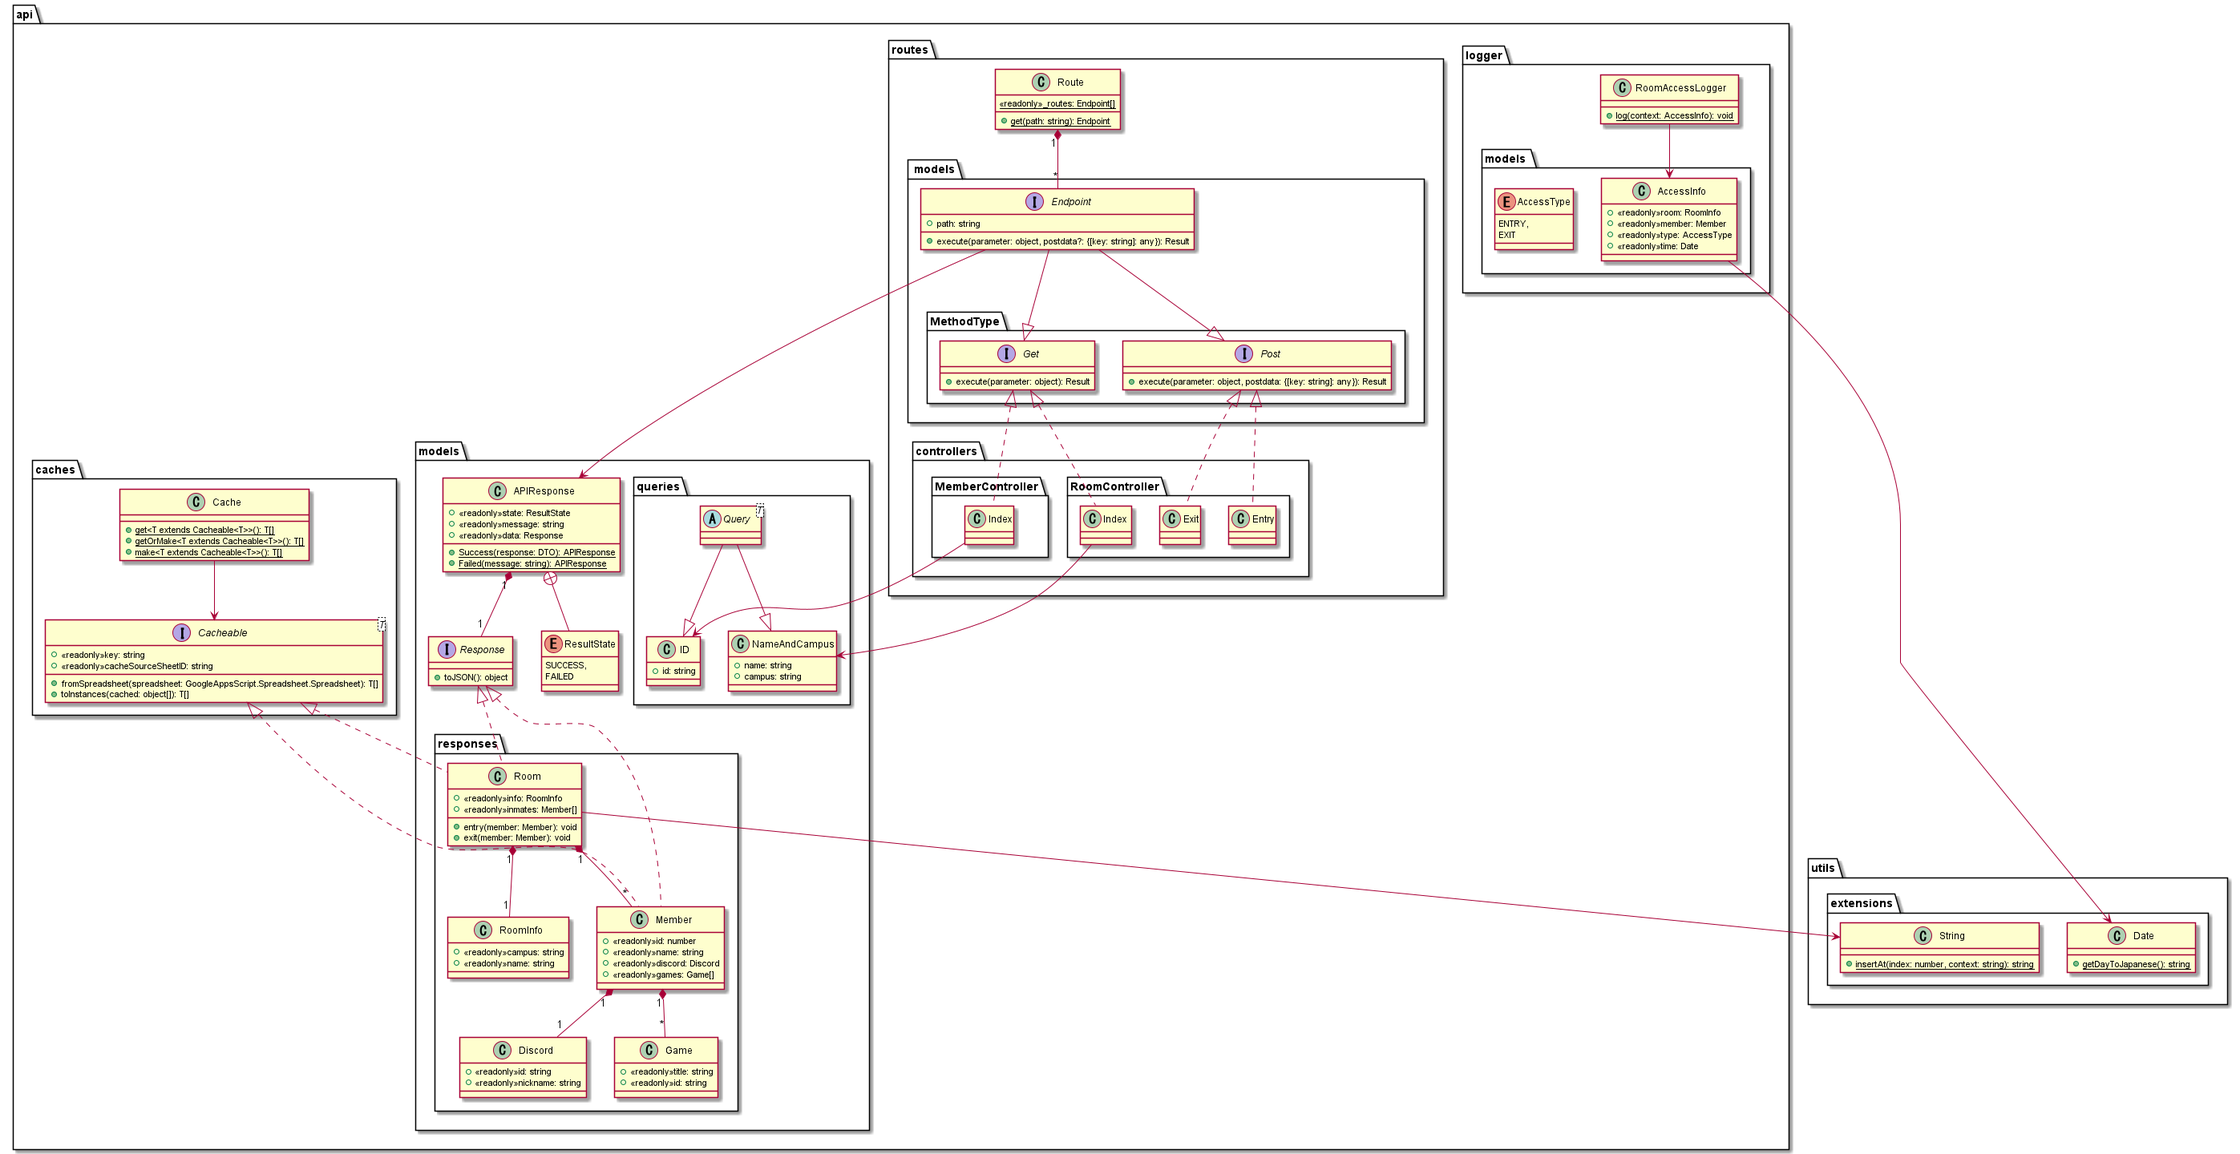
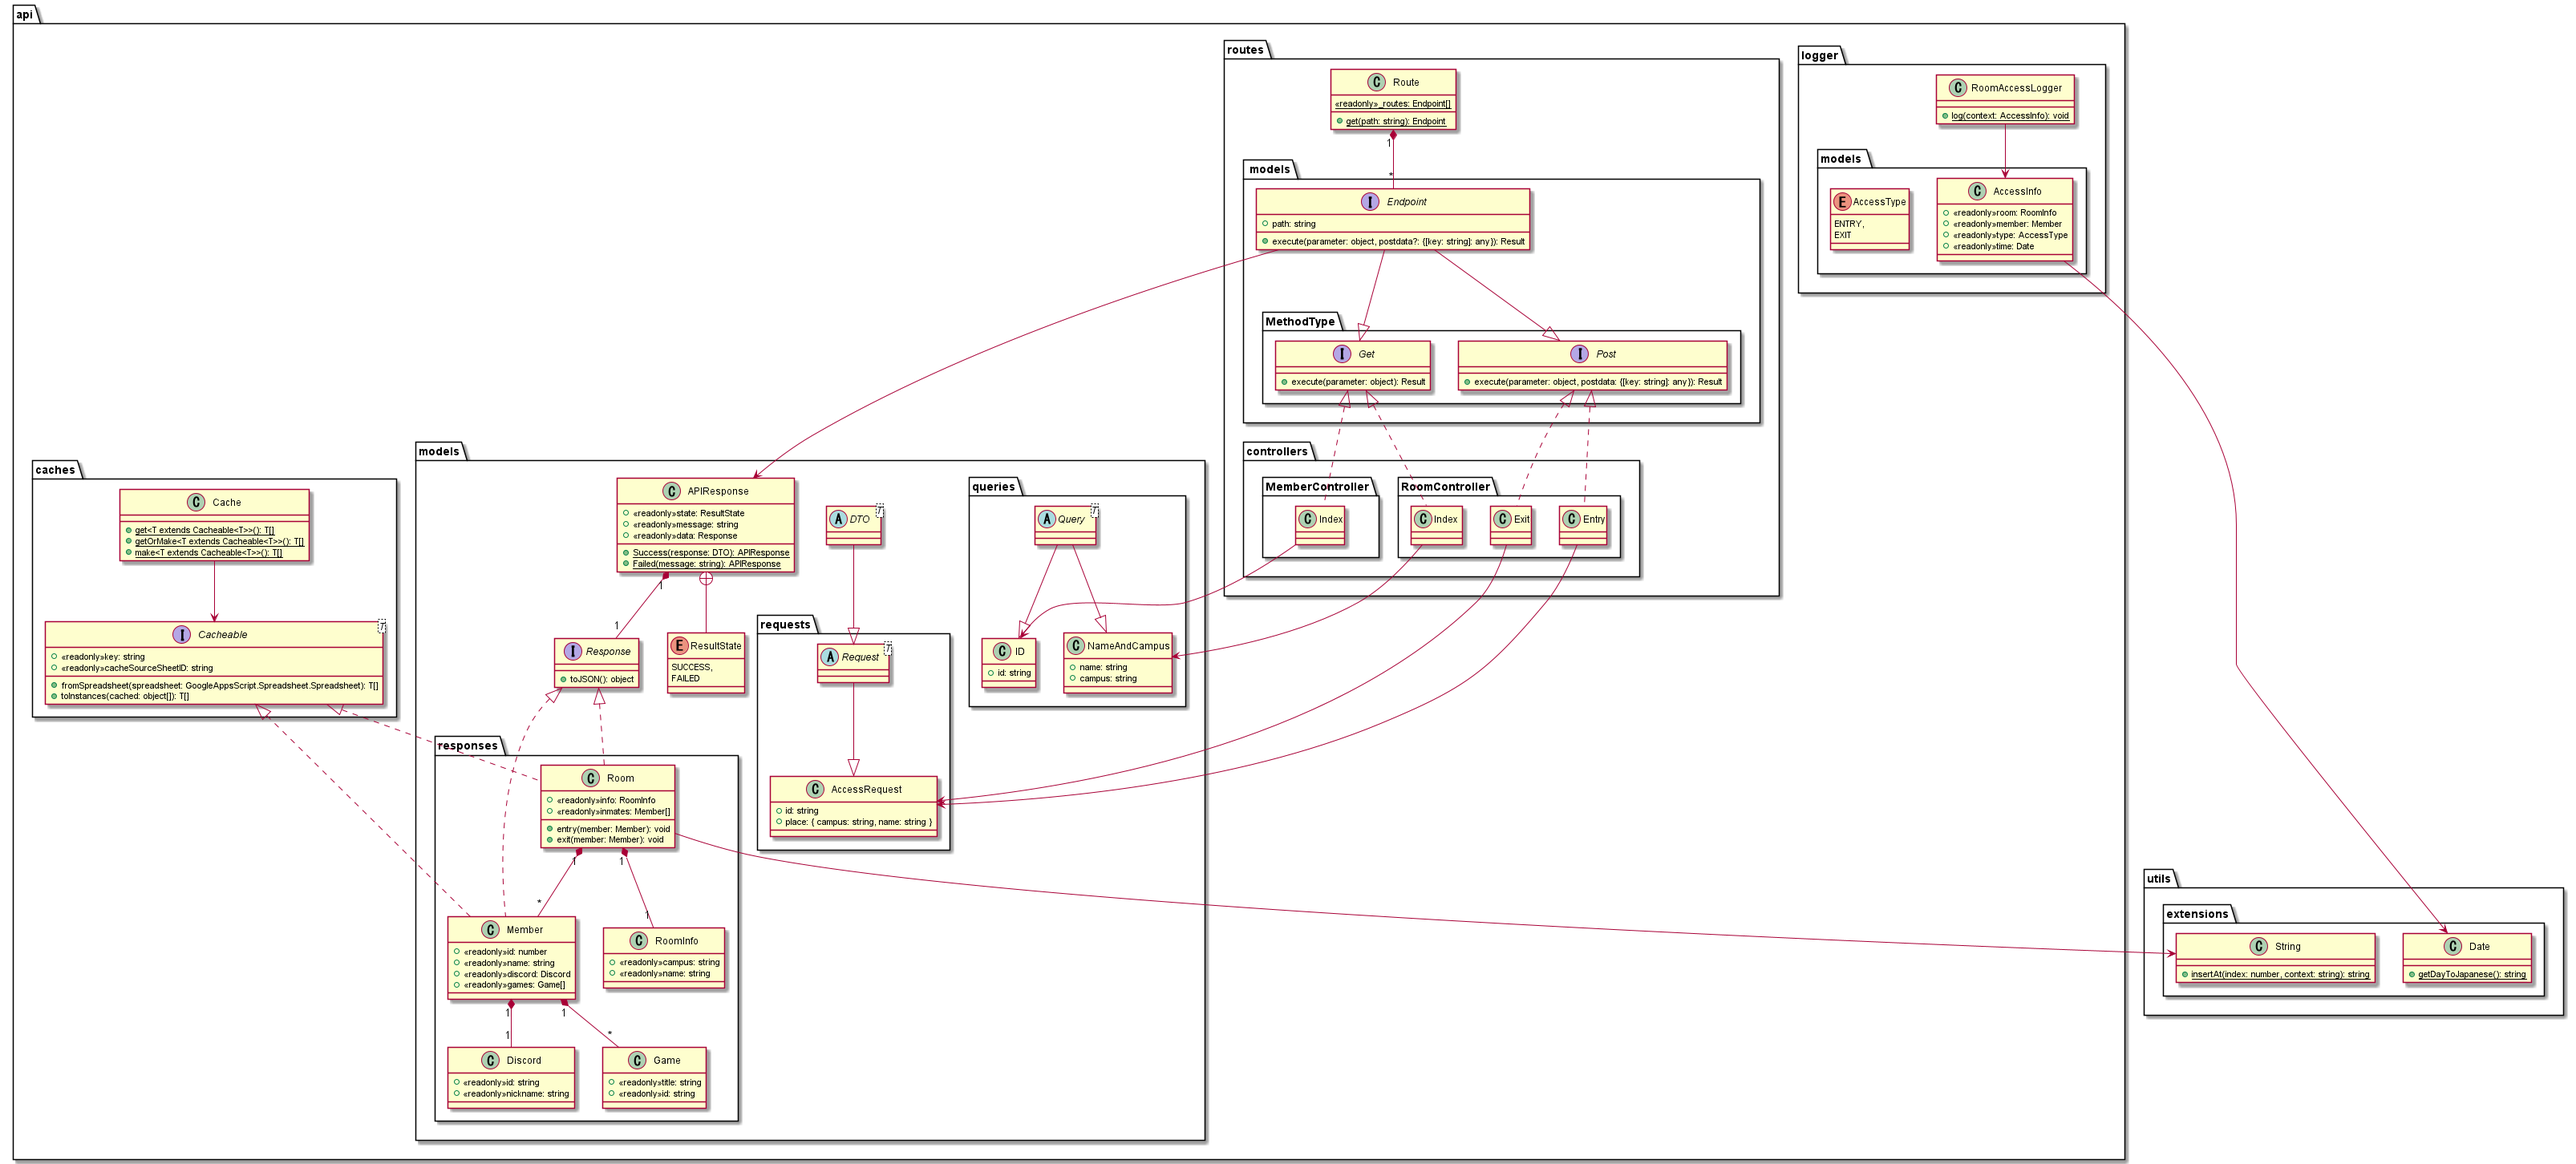
create request type

diff --git a/src/api/routes/controllers/roomController.ts b/src/api/routes/controllers/roomController.ts
@@ -5,6 +5,7 @@ import { APIResponse } from "../../models";
 import { NameAndCampus } from "../../models/queries/nameAndCampus";
 import { Room, Member, RoomInfo } from "../../models/responses";
 import { Get, Post } from "../models/methodType";
+import { AccessRequest } from "../../models/requests";
 
 export namespace RoomController {
     export class Index implements Get {
@@ -33,14 +34,15 @@ export namespace RoomController {
             this.path = "room/entry";
         }
 
-        execute(parameter: object, postdata: { [key: string]: any; }): APIResponse {
+        execute(parameter: object, postdata: object): APIResponse {
+            const req = new AccessRequest(postdata);
             const cached = Cache.getOrMake<Member>(Member);
             try {
-                const member = cached.find((member) => member.id == postdata.member.id);
+                const member = cached.find((member) => member.id?.toString() == req.id);
                 if (member) {
-                    return APIResponse.Failed(Utilities.formatString("No member with ID %s was found", postdata.member.id));
+                    return APIResponse.Failed(Utilities.formatString("No member with ID %s was found", req.id));
                 }
-                const info = new RoomInfo(postdata.room.campus, postdata.room.name);
+                const info = new RoomInfo(req.place.campus, req.place.name);
                 const accessInfo = new AccessInfo(info, member, AccessType.ENTRY);
                 const room = Cache.getOrMake<Room>(Room).find((room) => {
                     return room.info.campus == info.campus && room.info.name == info.name;
@@ -64,14 +66,15 @@ export namespace RoomController {
             this.path = "room/exit";
         }
 
-        execute(parameter: object, postdata: { [key: string]: any; }): APIResponse {
+        execute(parameter: object, postdata: object): APIResponse {
+            const req = new AccessRequest(postdata);
             const cached = Cache.getOrMake<Member>(Member);
             try {
-                const member = cached.find((member) => member.id == postdata.member.id);
+                const member = cached.find((member) => member.id?.toString() == req.id);
                 if (member) {
-                    return APIResponse.Failed(Utilities.formatString("No member with ID %s was found", postdata.member.id));
+                    return APIResponse.Failed(Utilities.formatString("No member with ID %s was found", req.id));
                 }
-                const info = new RoomInfo(postdata.room.campus, postdata.room.name);
+                const info = new RoomInfo(req.place.campus, req.place.name);
                 const accessInfo = new AccessInfo(info, member, AccessType.EXIT);
                 const room = Cache.getOrMake<Room>(Room).find((room) => {
                     return room.info.campus == info.campus && room.info.name == info.name;

diff --git a/src/main.ts b/src/main.ts
@@ -1,5 +1,9 @@
 import { Route } from "./api/routes";
 
+function getToken() {
+  console.log(ScriptApp.getOAuthToken());
+}
+
 function toJson(data: any) {
   return ContentService.createTextOutput(JSON.stringify(data))
     .setMimeType(ContentService.MimeType.JSON);

diff --git a/src/api/routes/models/endpoint.ts b/src/api/routes/models/endpoint.ts
@@ -2,5 +2,5 @@ import { APIResponse } from "../../models";
 
 export interface Endpoint {
     path: string;
-    execute(parameter: object, postdata?: { [key: string]: any }): APIResponse
+    execute(parameter: object, postdata?: object): APIResponse
 }

diff --git a/src/api/routes/models/methodType.ts b/src/api/routes/models/methodType.ts
@@ -6,5 +6,5 @@ export interface Get extends Endpoint {
 }
 
 export interface Post extends Endpoint {
-    execute(parameter: object, postdata: { [key: string]: any }): APIResponse
+    execute(parameter: object, postdata: object): APIResponse
 }

diff --git a/src/api/models/index.ts b/src/api/models/index.ts
@@ -1,3 +1,3 @@
 export { Response } from "./response"
-export { Request } from "./request"
+export { Request } from "./requests/request"
 export { APIResponse } from "./apiResponse"

diff --git a/src/api/models/requests/accessRequest.ts b/src/api/models/requests/accessRequest.ts
@@ -1,0 +1,6 @@
+import { Request } from "./request";
+
+export class AccessRequest extends Request<AccessRequest> {
+    id: string;
+    place: { campus: string, name: string }
+}

diff --git a/src/api/models/dto.ts b/src/api/models/dto.ts
@@ -1,0 +1,5 @@
+export abstract class DTO<T> {
+    constructor(partial: Partial<T>) {
+        Object.assign(this, partial);
+    }
+}

diff --git a/src/api/models/requests/index.ts b/src/api/models/requests/index.ts
@@ -1,0 +1,2 @@
+export { AccessRequest } from "./accessRequest"
+export { Request } from "./request"

diff --git a/src/api/models/requests/request.ts b/src/api/models/requests/request.ts
@@ -1,0 +1,3 @@
+import { DTO } from "../dto";
+
+export abstract class Request<T> extends DTO<T> { }
